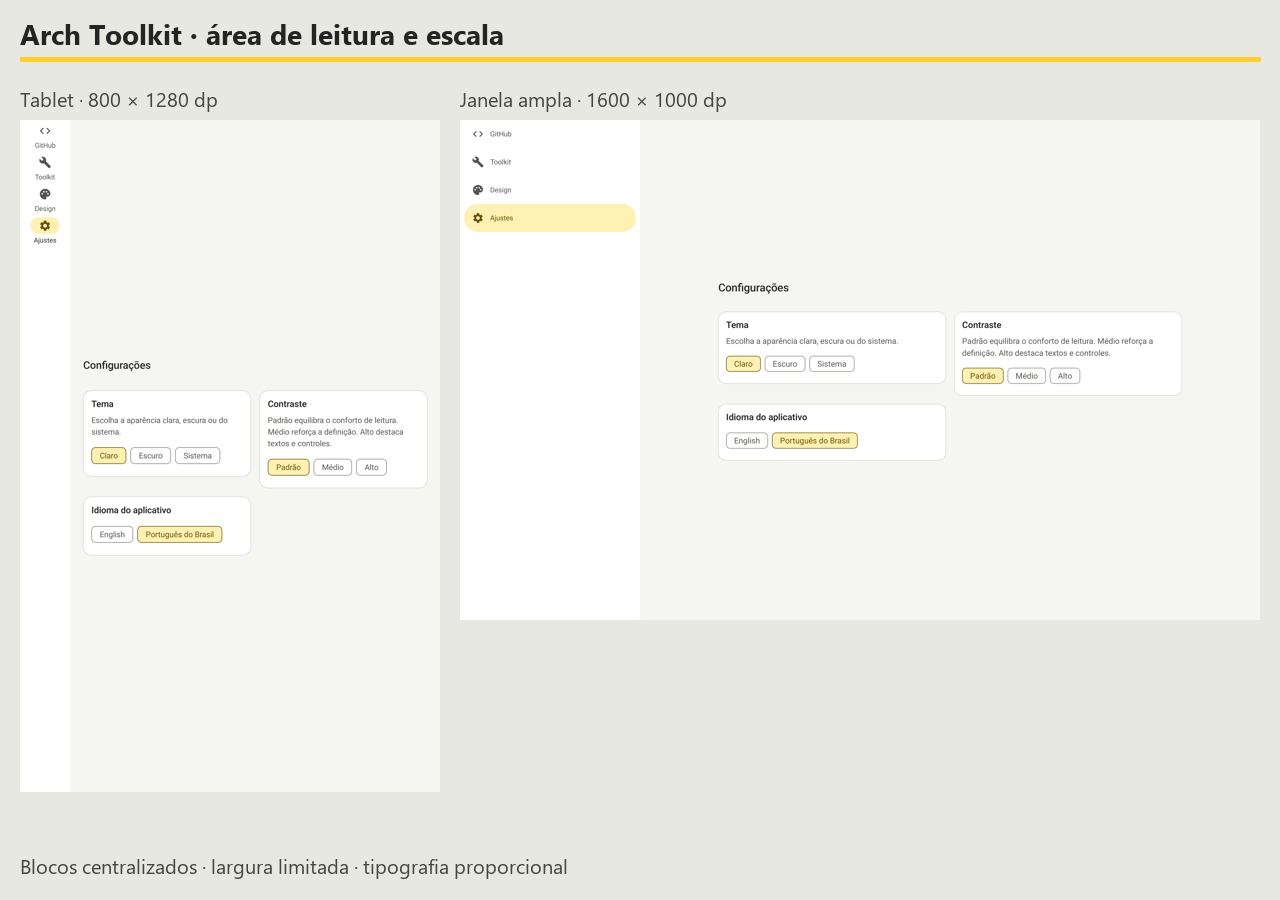
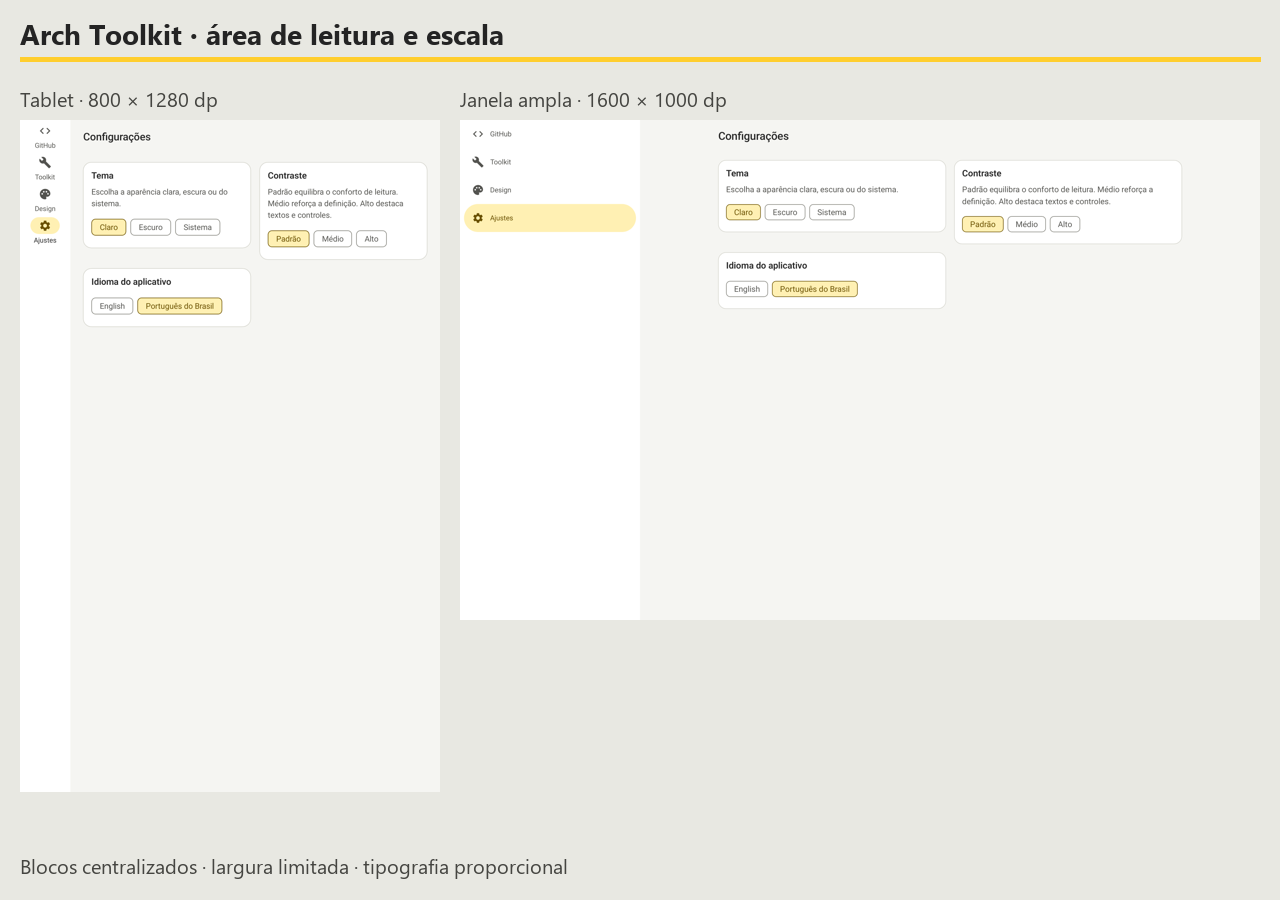
fix: keep adaptive showcase content top aligned

diff --git a/sample/shared/structure/design/widget/src/commonMain/kotlin/br/com/arch/toolkit/sample/github/shared/designSystem/component/AppLayout.kt b/sample/shared/structure/design/widget/src/commonMain/kotlin/br/com/arch/toolkit/sample/github/shared/designSystem/component/AppLayout.kt
@@ -6,9 +6,9 @@ import androidx.compose.foundation.layout.Arrangement
 import androidx.compose.foundation.layout.BoxWithConstraints
 import androidx.compose.foundation.layout.Column
 import androidx.compose.foundation.layout.ColumnScope
+import androidx.compose.foundation.layout.fillMaxHeight
 import androidx.compose.foundation.layout.fillMaxSize
 import androidx.compose.foundation.layout.fillMaxWidth
-import androidx.compose.foundation.layout.heightIn
 import androidx.compose.foundation.layout.padding
 import androidx.compose.foundation.layout.width
 import androidx.compose.material3.Surface
@@ -20,7 +20,6 @@ import androidx.compose.ui.platform.LocalDensity
 import androidx.compose.ui.semantics.heading
 import androidx.compose.ui.semantics.semantics
 import androidx.compose.ui.unit.Dp
-import androidx.compose.ui.unit.dp
 import br.com.arch.toolkit.sample.github.shared.designSystem.AppTheme
 import br.com.arch.toolkit.sample.github.shared.structure.core.model.WindowSize
 
@@ -44,15 +43,9 @@ fun AppPage(
         } else {
             this.maxWidth.coerceAtMost(maximumPageWidth)
         }
-        val pageHeight = if (roomy) {
-            (maxHeight - AppTheme.dimen.spacingM).coerceAtLeast(0.dp)
-                .coerceAtMost(AppTheme.dimen.contentMaxHeight)
-        } else {
-            maxHeight
-        }
         Column(
-            Modifier.align(if (roomy) Alignment.Center else Alignment.TopCenter)
-                .width(pageWidth).heightIn(max = pageHeight)
+            Modifier.align(Alignment.TopCenter)
+                .width(pageWidth).fillMaxHeight()
         ) {
             ScreenTitle(Modifier.fillMaxWidth(), title)
             content()

diff --git a/sample/shared/app/src/jvmTest/kotlin/br/com/arch/toolkit/sample/shared/ResponsiveLayoutUiTest.kt b/sample/shared/app/src/jvmTest/kotlin/br/com/arch/toolkit/sample/shared/ResponsiveLayoutUiTest.kt
@@ -30,7 +30,6 @@ import br.com.arch.toolkit.sample.github.shared.designSystem.AppTheme
 import br.com.arch.toolkit.sample.github.shared.designSystem.component.AppPage
 import br.com.arch.toolkit.sample.github.shared.designSystem.component.AppSection
 import br.com.arch.toolkit.sample.github.shared.structure.core.model.AppLanguage
-import kotlin.math.abs
 import kotlin.test.Test
 import kotlin.test.assertEquals
 import kotlin.test.assertTrue
@@ -38,7 +37,7 @@ import kotlin.test.assertTrue
 @OptIn(ExperimentalTestApi::class)
 class ResponsiveLayoutUiTest {
     @Test
-    fun shortContentIsCenteredInsideAWideViewport() = runComposeUiTest {
+    fun shortContentIsHorizontallyCenteredAndTopAlignedInsideAWideViewport() = runComposeUiTest {
         setContent {
             AppTheme {
                 Box(Modifier.requiredSize(WIDE_WIDTH.dp, CONTENT_HEIGHT.dp).testTag("viewport")) {
@@ -55,8 +54,8 @@ class ResponsiveLayoutUiTest {
         val title = onNodeWithText("Reading").fetchSemanticsNode().boundsInRoot
         assertTrue(section.width < viewport.width)
         assertEquals(viewport.center.x, section.center.x, CENTER_TOLERANCE)
-        val contentCenter = (title.top + section.bottom) / 2
-        assertTrue(abs(viewport.center.y - contentCenter) < HEADING_TOLERANCE)
+        assertTrue(title.top - viewport.top < HEADING_TOLERANCE)
+        assertTrue(section.bottom < viewport.center.y)
     }
 
     @Test

diff --git a/sample/shared/structure/design/widget/src/commonMain/kotlin/br/com/arch/toolkit/sample/github/shared/designSystem/component/AppAdaptiveLayout.kt b/sample/shared/structure/design/widget/src/commonMain/kotlin/br/com/arch/toolkit/sample/github/shared/designSystem/component/AppAdaptiveLayout.kt
@@ -59,7 +59,7 @@ fun AppSearchLayout(
         val controlMaxHeight = maxHeight * CONTROL_HEIGHT_FRACTION
         val paneMaxHeight = maxHeight
         if (maxWidth >= AppTheme.dimen.splitPaneMinWidth * fontScale) {
-            Row(Modifier.fillMaxWidth(), verticalAlignment = Alignment.CenterVertically) {
+            Row(Modifier.fillMaxWidth(), verticalAlignment = Alignment.Top) {
                 Column(
                     Modifier.width(AppTheme.dimen.searchPaneWidth * fontScale)
                         .heightIn(max = paneMaxHeight).verticalScroll(controlScroll),

diff --git a/sample/shared/structure/design/core/src/commonMain/kotlin/br/com/arch/toolkit/sample/github/shared/designSystem/_dimen.kt b/sample/shared/structure/design/core/src/commonMain/kotlin/br/com/arch/toolkit/sample/github/shared/designSystem/_dimen.kt
@@ -18,8 +18,6 @@ sealed class AppDimen {
 
     val contentMaxWidth: Dp = 960.dp
 
-    val contentMaxHeight: Dp = 900.dp
-
     val readingMaxWidth: Dp = 720.dp
 
     val sectionMinWidth: Dp = 320.dp

diff --git a/docs/showcase.md b/docs/showcase.md
@@ -252,12 +252,10 @@ the navigation shell as well as populated GitHub landscape results.
 In landscape or medium/expanded windows, the shared page targets 92% of the available width,
 capped at 960 dp (720 dp for repository detail). The frame retains enough width
 for two readable columns when they fit and follows the user's font setting.
-Short pages wrap their content and center both horizontally and vertically;
-scrollable pages remain bounded by the available height, with a 900 dp maximum.
-Compact portrait pages retain their top alignment.
+Pages fill the available height and start at the top, with horizontal centering
+and adaptive width. Long content scrolls within the available height.
 
-Search and results align around the same vertical center when displayed side by
-side. A short result list wraps rather than stretching its pagination action to
+Search and results align at the top when displayed side by side. A short result list wraps rather than stretching its pagination action to
 the bottom edge; long lists continue to scroll within the frame.
 
 Typography increases gently with the window width class. Values remain in `sp`,
@@ -270,7 +268,7 @@ so system font scaling is applied normally; density/font scaling is never overri
 | Body | 14 sp / 20 sp leading | 15 sp / 22 sp leading | 16 sp / 24 sp leading |
 | Metadata / code | 12 sp / 16 sp leading | 13 sp / 18 sp leading | 14 sp / 20 sp leading |
 
-JVM coverage also checks that a short page stays inset and centered within a wide
+JVM coverage also checks that a short page stays horizontally centered and top-aligned within a wide
 viewport. Existing resizing and 2x landscape interaction checks remain active.
 
 ![Centered reading area and typography](assets/showcase-reading.png)

diff --git a/docs/CHANGELOG.md b/docs/CHANGELOG.md
@@ -26,9 +26,9 @@ Showcase and maintenance changes based on tag `2.0.0-rc18`.
   results when both panes fit and keep controls scrollable in short windows.
 - Reserve the navigation drawer for windows from 1200 dp, retain a tablet rail,
   cap repository detail reading width, and verify edited inputs survive resizing.
-- Center short landscape/tablet pages within a proportional reading frame, cap
+- Horizontally center landscape/tablet pages within a proportional reading frame, cap
   content width at 960 dp and keep longer pages scrollable. Align search/results
-  around the same visual center and apply modest width-based typography scales
+  at the top and apply modest width-based typography scales
   with proportional line heights, respecting system font enlargement.
 - Preserve brand yellow with readable dark ink; define six complete light/dark
   contrast palettes with opaque surfaces and consistent Material roles. Add KMP
